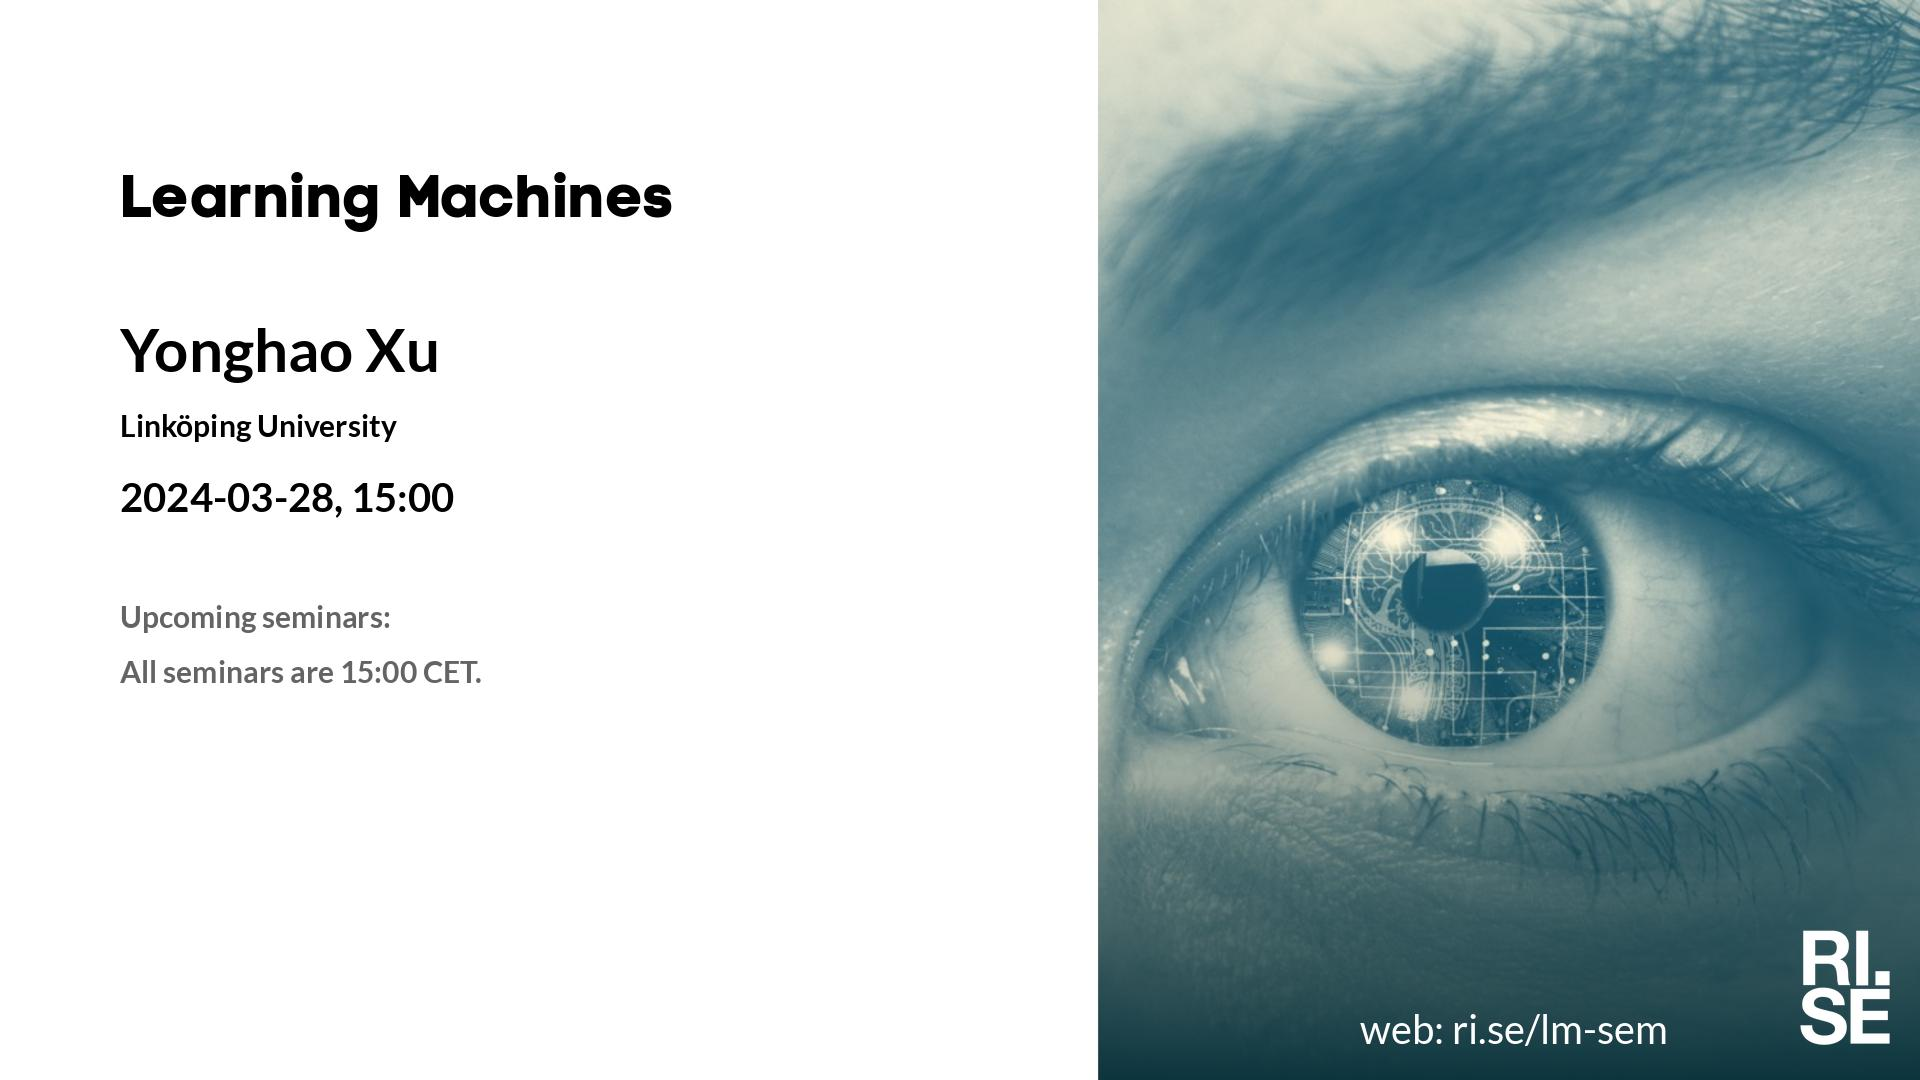
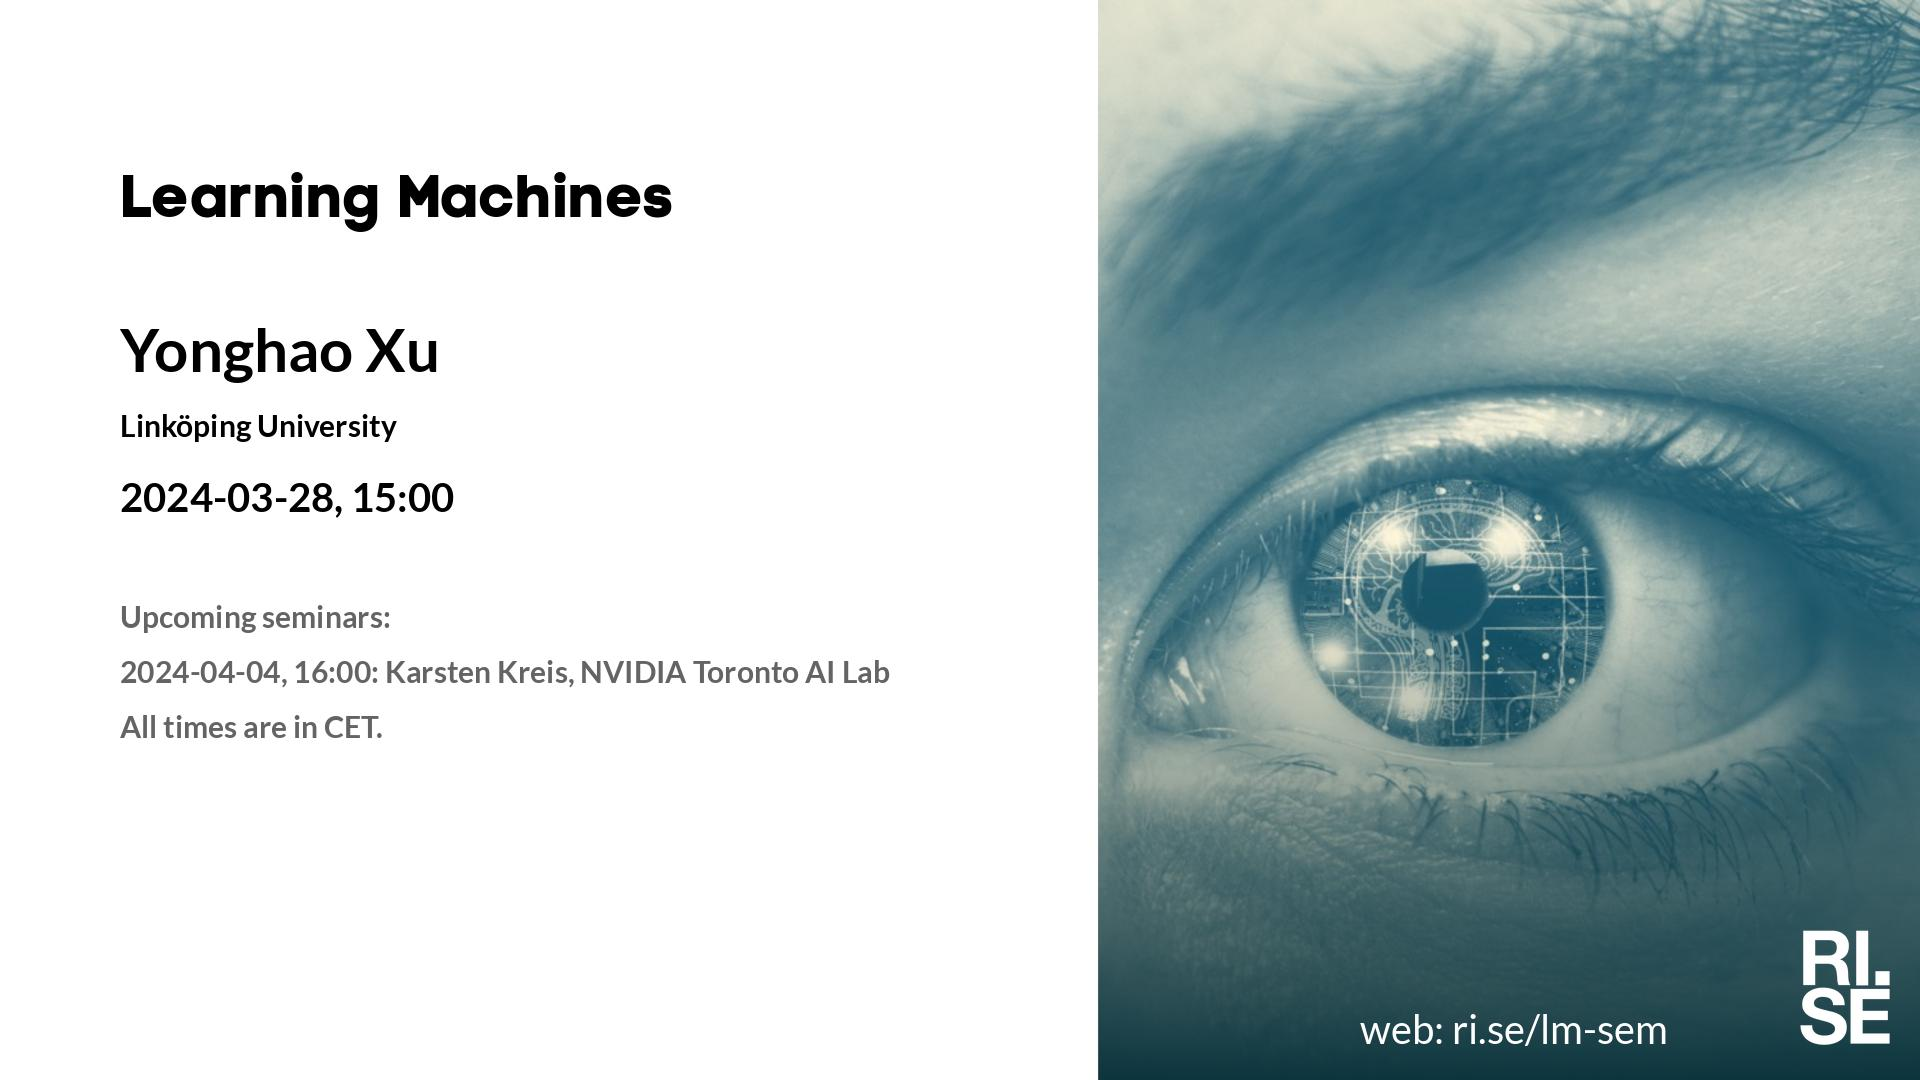
Updated plan on web site.

Changed region(s): [[0.0625, 0.6111, 0.4688, 0.7028]]

diff --git a/lm/index.md b/lm/index.md
@@ -26,7 +26,7 @@ table {border-collapse: collapse;}
 |  2024-03-14  |  [Santiago Martinez Balvanera, University College London](2024-03-14.md)  |  [photo](photo-santiago-martinez-balvanera.jpg)  |  [social media ](social-media-santiago-martinez-balvanera.jpg)  |  [meeting backdrop ](meeting-backdrop-santiago-martinez-balvanera.jpg)  |  [youtube thumbnail ](youtube-thumbnail-santiago-martinez-balvanera.jpg)  |  S~~TAB~~P  |
 | <span style="color:purple"> 2024-03-21 </span> | <span style="color:purple"> *Up for grabs!!!* </span> | <span style="color:purple">  </span> | <span style="color:purple">  </span> | <span style="color:purple">  </span> | <span style="color:purple">  </span> | <span style="color:purple"> ~~STABP~~ </span> |
 |  2024-03-28  |  [Yonghao Xu, Linköping University](2024-03-28.md)  |  [photo](photo-yonghao-xu.jpg)  |  [social media ](social-media-yonghao-xu.jpg)  |  [meeting backdrop ](meeting-backdrop-yonghao-xu.jpg)  |  [youtube thumbnail ](youtube-thumbnail-yonghao-xu.jpg)  |  S~~TAB~~P  |
-| <span style="color:grey"> 2024-04-04 </span> | <span style="color:grey"> Karsten K. ? </span> | <span style="color:grey">  </span> | <span style="color:grey">  </span> | <span style="color:grey">  </span> | <span style="color:grey">  </span> | <span style="color:grey"> S~~TABP~~ </span> |
+|  2024-04-04  |  [Karsten Kreis, NVIDIA Toronto AI Lab](2024-04-04.md)  |    |  [social media ](social-media-karsten-kreis.jpg)  |  [meeting backdrop ](meeting-backdrop-karsten-kreis.jpg)  |  [youtube thumbnail ](youtube-thumbnail-karsten-kreis.jpg)  |  S~~TABP~~  |
 | <span style="color:purple"> 2024-04-11 </span> | <span style="color:purple"> *Up for grabs!!!* </span> | <span style="color:purple">  </span> | <span style="color:purple">  </span> | <span style="color:purple">  </span> | <span style="color:purple">  </span> | <span style="color:purple"> ~~STABP~~ </span> |
 | <span style="color:purple"> 2024-04-18 </span> | <span style="color:purple"> *Up for grabs!!!* </span> | <span style="color:purple">  </span> | <span style="color:purple">  </span> | <span style="color:purple">  </span> | <span style="color:purple">  </span> | <span style="color:purple"> ~~STABP~~ </span> |
 | <span style="color:purple"> 2024-04-25 </span> | <span style="color:purple"> *Up for grabs!!!* </span> | <span style="color:purple">  </span> | <span style="color:purple">  </span> | <span style="color:purple">  </span> | <span style="color:purple">  </span> | <span style="color:purple"> ~~STABP~~ </span> |

diff --git a/lm/2024-04-04.md b/lm/2024-04-04.md
@@ -6,7 +6,7 @@ Welcome to this week's Learning Machines seminar.
 
 **Title:** N/A
 
-**Speaker:** Yonghao Xu, Linköping University
+**Speaker:** Karsten Kreis, NVIDIA Toronto AI Lab
 
 **Abstract:** N/A
 
@@ -14,14 +14,13 @@ Welcome to this week's Learning Machines seminar.
 
 **Location:** This is an online seminar. Connect using Zoom.
 
-**Date:** 2024-03-28 15:00
+**Date:** 2024-04-04 16:00
 
-**Zoom link:** [https://rise.zoom.us/j/208117140](https://rise.zoom.us/j/208117140)
+**Zoom link:** [https://rise.zoom.us/j/208117140?pwd=SFo2cDRKYXlHWE44NU1PdXd0ZEdUdz09](https://rise.zoom.us/j/208117140?pwd=SFo2cDRKYXlHWE44NU1PdXd0ZEdUdz09)
 
 **Upcoming seminars:**
 
-* 2024-04-04, 16:00: Karsten Kreis, NVIDIA Toronto AI Lab
-* All times are in CET.
+* All seminars are 15:00 CET.
 
 More information and coming seminars: [https://ri.se/lm-sem](https://ri.se/lm-sem)
 

diff --git a/lm/2024-03-14.md b/lm/2024-03-14.md
@@ -20,8 +20,9 @@ Welcome to this week's Learning Machines seminar.
 
 **Upcoming seminars:**
 
-* 2024-03-28: Yonghao Xu, Linköping University
-* All seminars are 15:00 CET.
+* 2024-03-28, 15:00: Yonghao Xu, Linköping University
+* 2024-04-04, 16:00: Karsten Kreis, NVIDIA Toronto AI Lab
+* All times are in CET.
 
 More information and coming seminars: [https://ri.se/lm-sem](https://ri.se/lm-sem)
 
